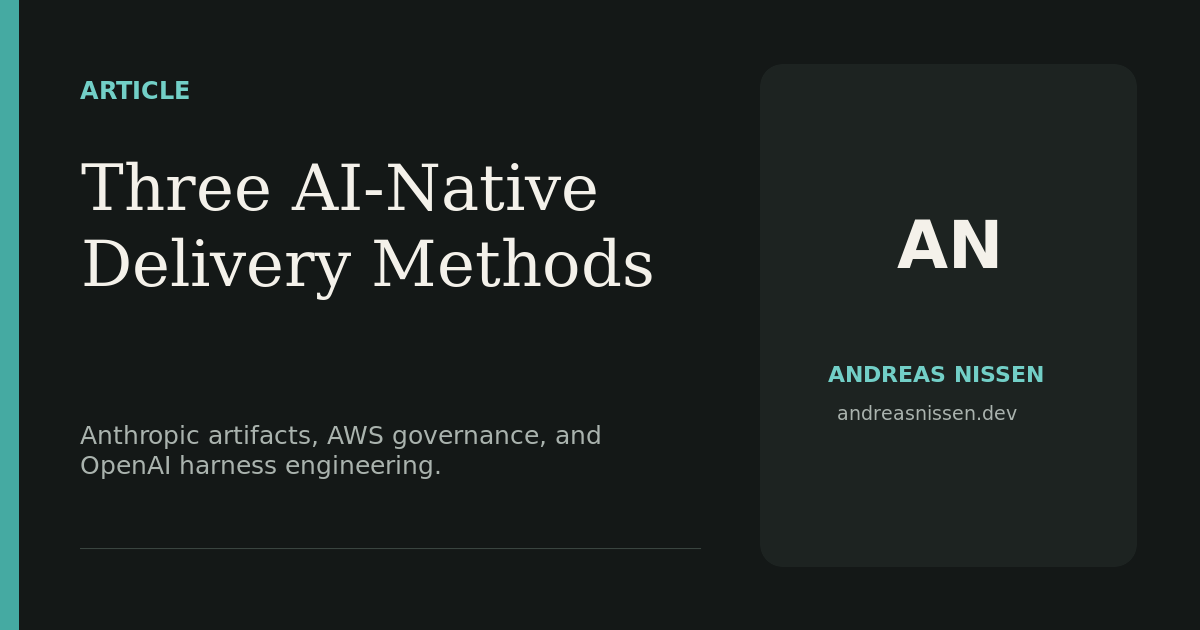
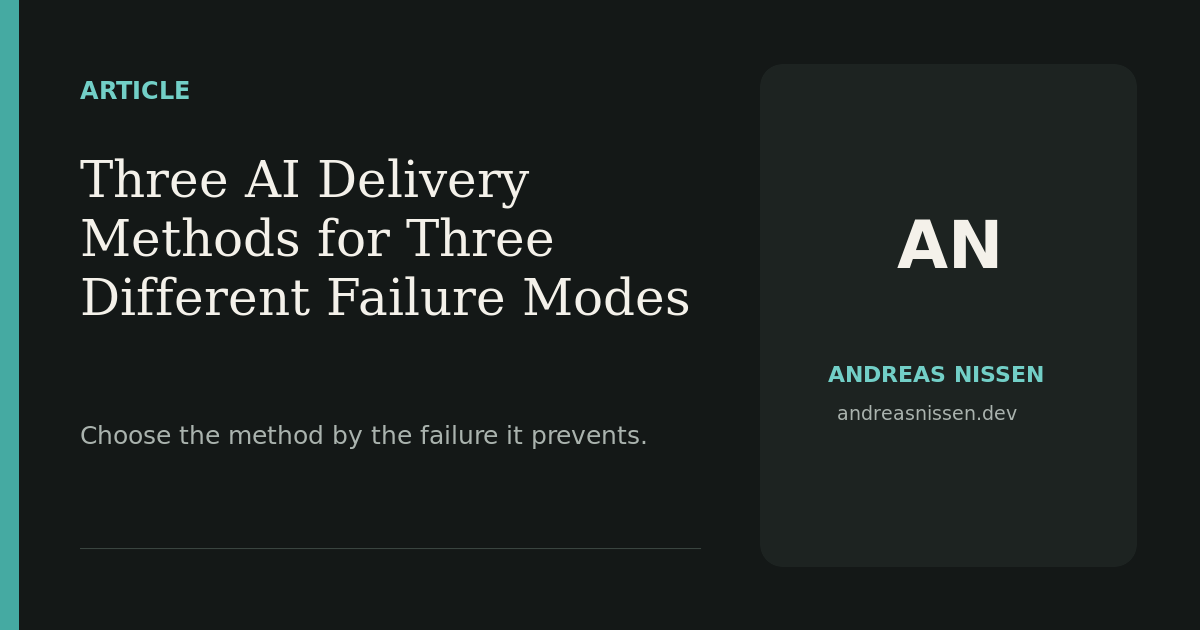
content: sharpen article titles

Changed region(s): [[0.0617, 0.2413, 0.5858, 0.5127], [0.0617, 0.6635, 0.5242, 0.754]]

diff --git a/PUBLISHING.md b/PUBLISHING.md
@@ -12,11 +12,18 @@ Reuse the argument and evidence. Do not cross-post identical text by default. Ea
 
 Set `origin: "website"` for new canonical articles. Preserve `origin: "linkedin"` only for verified legacy imports so the public page describes their publication history accurately.
 
+## Title gate
+
+Treat the title and description as one editorial pair. The title must name the concrete subject and give the intended reader a truthful reason to open the article through a tension, consequence, decision, or practical payoff. It must make sense without the body, resolve to the article's actual argument, and stay inside the evidence boundary.
+
+The description should explain the scope or evidence instead of repeating the title. Reject a title that depends on a vague metaphor, a generic category label, an unsupported superlative, or curiosity that the article does not satisfy. If the intended reader cannot tell what they will learn and why it matters from the title and description together, revise them before creating social derivatives.
+
 ## Definition of done
 
 A substantive original publishing package is complete only when:
 
 - a publication-safe article exists under `content/writing/`;
+- its title and description pass the title gate;
 - its page-specific 1200 by 630 sharing image matches the final title and argument;
 - its claims and source links are current and verified;
 - private, customer, and AWS-confidential details have been removed;

diff --git a/content/projects/runbook-relay.md b/content/projects/runbook-relay.md
@@ -17,7 +17,7 @@ socialImage: "/images/social/runbook-relay.png"
 socialImageAlt: "Runbook Relay, a governed WebMCP incident-response control room by Andreas Nissen."
 hideDetailImage: true
 relatedArticleURL: "/writing/from-browser-tool-to-governed-workflow/"
-relatedArticleTitle: "From Browser Tool to Governed Workflow"
+relatedArticleTitle: "Why Browser Agent Governance Belongs on the Server"
 evidenceReady: true
 lastVerified: "2026-09-01"
 proofStats:
@@ -134,4 +134,4 @@ This is a reference application, not a production operations console. A producti
 
 ## Related writing
 
-[From Browser Tool to Governed Workflow](/writing/from-browser-tool-to-governed-workflow/) explains the control-plane migration. [Screen Use vs WebMCP](/writing/screen-use-vs-webmcp/) compares interface paths without inventing benchmark results. [The Cheapest AI Model Is Not Always the Cheapest System](/writing/hidden-token-tax-agent-tools/) connects tool design to outcome-based efficiency measurement.
+[Why Browser Agent Governance Belongs on the Server](/writing/from-browser-tool-to-governed-workflow/) explains the control-plane migration. [Screen Use vs WebMCP](/writing/screen-use-vs-webmcp/) compares interface paths without inventing benchmark results. [The Cheapest AI Model Is Not Always the Cheapest System](/writing/hidden-token-tax-agent-tools/) connects tool design to outcome-based efficiency measurement.

diff --git a/content/writing/ai-native-software-delivery-methods.md b/content/writing/ai-native-software-delivery-methods.md
@@ -1,5 +1,5 @@
 ---
-title: "Three AI-Native Software Delivery Methods Compared"
+title: "Three AI Delivery Methods for Three Different Failure Modes"
 date: 2026-08-31
 description: "AI-native delivery solves three different problems: preserving intent, governing complex delivery, and giving coding agents a reliable execution environment."
 primaryTopic: "Operating practice"
@@ -18,7 +18,7 @@ proofLinks:
   - label: "Read the AWS AI-DLC guide"
     url: "https://awslabs.github.io/aidlc-workflows/guide/00-introduction/"
 socialImage: "/images/social/ai-native-delivery-methods.png"
-socialImageAlt: "Three AI-Native Software Delivery Methods Compared, an article by Andreas Nissen."
+socialImageAlt: "Three AI Delivery Methods for Three Different Failure Modes, an article by Andreas Nissen."
 tags:
   - AI-DLC
   - software delivery

diff --git a/content/writing/from-browser-tool-to-governed-workflow.md b/content/writing/from-browser-tool-to-governed-workflow.md
@@ -1,5 +1,5 @@
 ---
-title: "From Browser Tool to Governed Workflow"
+title: "Why Browser Agent Governance Belongs on the Server"
 date: 2026-09-01
 description: "Moving agent policy from client state to a durable server control plane changes what a tool demo can prove."
 primaryTopic: "Agent controls"
@@ -21,7 +21,7 @@ proofLinks:
   - label: "Inspect the 50-task evaluation contract"
     url: "https://github.com/Andreasniss/runbook-relay-webmcp/tree/main/evals/live-tool-use"
 socialImage: "/images/social/browser-tool-governed-workflow.png"
-socialImageAlt: "From Browser Tool to Governed Workflow, an article by Andreas Nissen about durable agent controls."
+socialImageAlt: "Why Browser Agent Governance Belongs on the Server, an article by Andreas Nissen about durable agent controls."
 tags:
   - agent architecture
   - WebMCP

diff --git a/content/writing/free-aws-builder-center-sandboxes.md b/content/writing/free-aws-builder-center-sandboxes.md
@@ -1,5 +1,5 @@
 ---
-title: "Free AWS Builder Center Sandboxes Make Hands-On Learning Easier"
+title: "Try AWS Workshops Without Setting Up an AWS Account"
 date: 2026-07-09
 description: "AWS Builder Center removes the account and credit-card setup that often stops a workshop before the building begins."
 primaryTopic: "Learning"
@@ -16,7 +16,7 @@ proofLinks:
   - label: "Browse AWS workshops"
     url: "https://builder.aws.com/build/workshops"
 socialImage: "/images/social/builder-sandboxes.png"
-socialImageAlt: "Free AWS Builder Center Sandboxes Make Hands-On Learning Easier, an article by Andreas Nissen."
+socialImageAlt: "Try AWS Workshops Without Setting Up an AWS Account, an article by Andreas Nissen."
 tags:
   - AWS
   - hands-on learning

diff --git a/content/writing/from-screenshots-to-governed-tools.md b/content/writing/from-screenshots-to-governed-tools.md
@@ -1,5 +1,5 @@
 ---
-title: "From Screenshots to Governed Tools"
+title: "AI Agents Need Governed Tools, Not Just Screenshots"
 date: 2026-08-29
 description: "Agent-friendly interfaces should expose structured operations without taking the human operator out of the loop."
 primaryTopic: "Tool interfaces"
@@ -16,7 +16,7 @@ proofLinks:
   - label: "Review its contract tests"
     url: "https://github.com/Andreasniss/runbook-relay-webmcp/blob/main/tests/app-contract.test.mjs"
 socialImage: "/images/social/governed-tools.png"
-socialImageAlt: "From Screenshots to Governed Tools, an article by Andreas Nissen."
+socialImageAlt: "AI Agents Need Governed Tools, Not Just Screenshots, an article by Andreas Nissen."
 tags:
   - WebMCP
   - tool design

diff --git a/content/writing/context-and-control.md b/content/writing/context-and-control.md
@@ -1,5 +1,5 @@
 ---
-title: "Context and Control Are Different Layers"
+title: "AI Agents Need Separate Context and Control Layers"
 date: 2026-08-30
 description: "An agent needs enough context to reason and enough control to act safely. Treating them as one system hides different failure modes."
 primaryTopic: "Agent architecture"
@@ -14,7 +14,7 @@ proofLinks:
   - label: "Review the 7DayFocus case study"
     url: "/projects/7dayfocus-ai-delivery-lab/"
 socialImage: "/images/social/context-and-control.png"
-socialImageAlt: "Context and Control Are Different Layers, an article by Andreas Nissen."
+socialImageAlt: "AI Agents Need Separate Context and Control Layers, an article by Andreas Nissen."
 tags:
   - agent architecture
   - context

diff --git a/content/writing/ontology-is-more-than-context.md b/content/writing/ontology-is-more-than-context.md
@@ -1,5 +1,5 @@
 ---
-title: "An Ontology Is More Than Context"
+title: "When AI Agents Need an Ontology, Not Just More Context"
 date: 2026-08-28
 description: "Context is the evidence available now. An ontology defines what the entities, relationships, and rules in that evidence mean."
 primaryTopic: "Agent architecture"
@@ -14,7 +14,7 @@ proofLinks:
   - label: "Read the context and control companion"
     url: "/writing/context-and-control/"
 socialImage: "/images/social/ontology-context.png"
-socialImageAlt: "An Ontology Is More Than Context, an article by Andreas Nissen."
+socialImageAlt: "When AI Agents Need an Ontology, Not Just More Context, an article by Andreas Nissen."
 tags:
   - ontology
   - knowledge graphs

diff --git a/content/projects/7dayfocus-ai-delivery-lab.md b/content/projects/7dayfocus-ai-delivery-lab.md
@@ -18,7 +18,7 @@ imageAlt: "7DayFocus architecture with review, validation, explicit approval, an
 hideDetailImage: true
 repoURL: "https://github.com/Andreasniss/7dayfocus-ai-delivery-lab"
 relatedArticleURL: "/writing/ai-native-software-delivery-methods/"
-relatedArticleTitle: "Three AI-Native Software Delivery Methods Compared"
+relatedArticleTitle: "Three AI Delivery Methods for Three Different Failure Modes"
 evidenceReady: true
 lastVerified: "2026-09-01"
 proofStats:

diff --git a/content/talks/reliable-agents-in-production.md b/content/talks/reliable-agents-in-production.md
@@ -45,4 +45,4 @@ The original learning materials are not published here. The same public-safe eng
 
 - [The Hard Part of Agentic AI Starts After the Demo](/writing/agentic-ai-after-the-demo/)
 - [Agent Reliability Lab](/projects/mistral-playground/)
-- [Context and Control Are Different Layers](/writing/context-and-control/)
+- [AI Agents Need Separate Context and Control Layers](/writing/context-and-control/)
